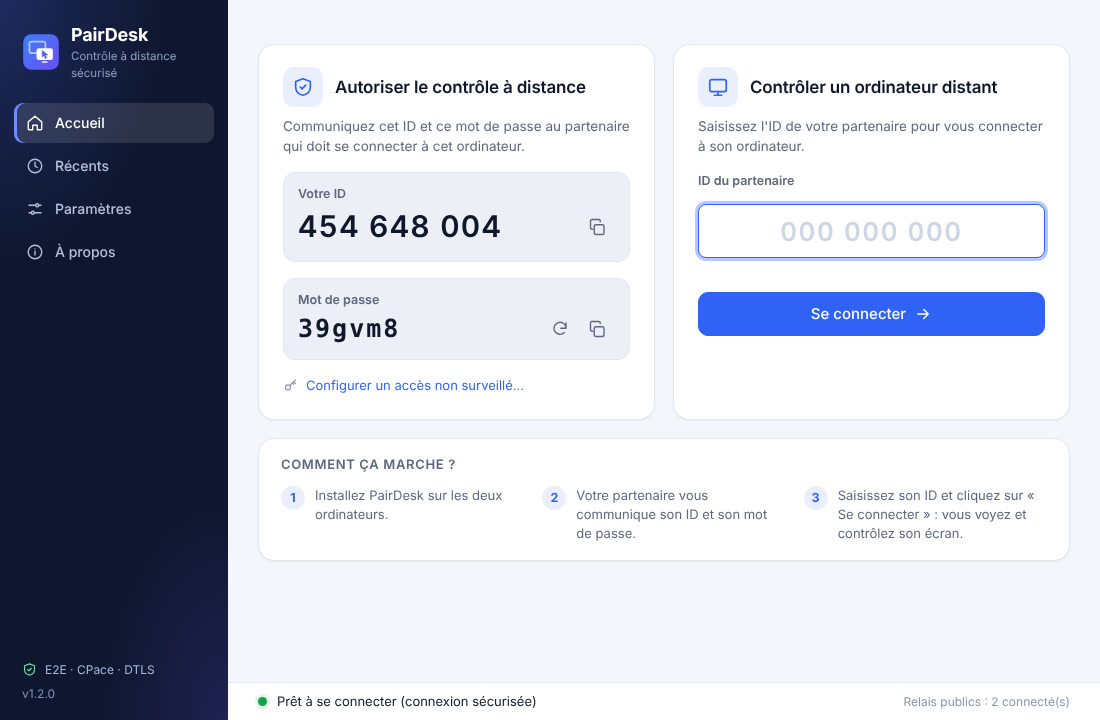
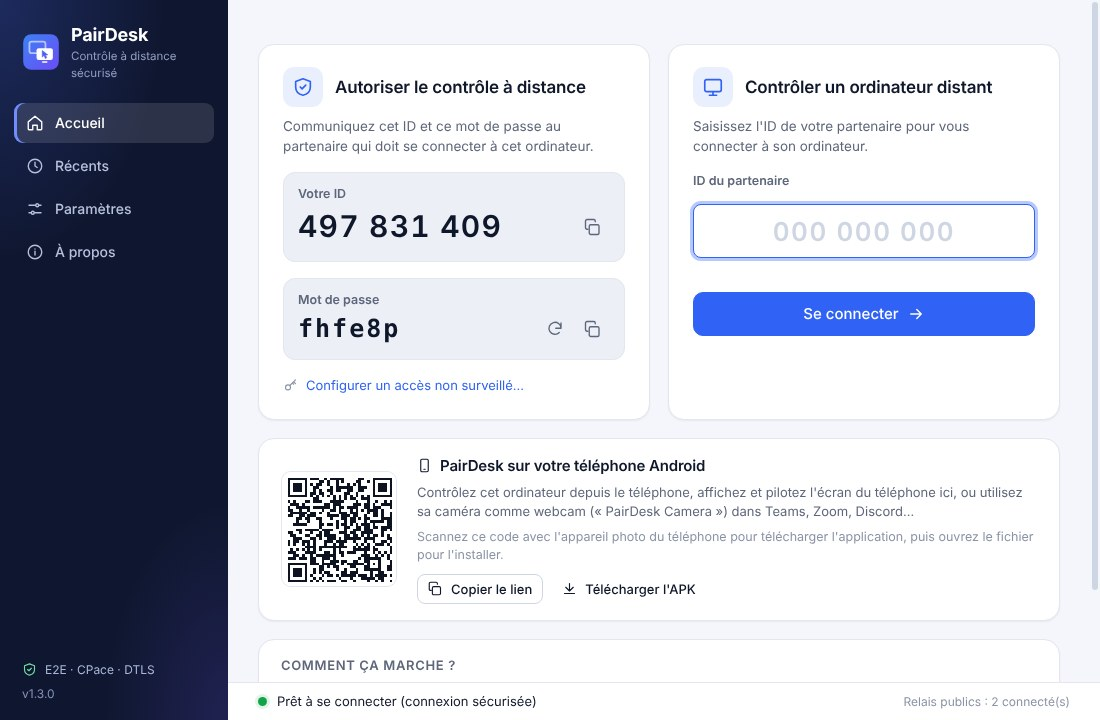
Website: devices section (Windows, Mac, Android with a QR code), 1.3 screenshot, install FAQ
- 'Sur tous vos appareils': what PairDesk does on Windows/Linux, on a Mac
  (first launch, permissions) and on Android, with a QR code of the APK.
- The main download buttons offer the visitor's own system (Mac, Linux,
  Android, Windows by default).
- New home screenshot of 1.3.0 (with the Android card), FAQ on installing
  on a Mac and on Android.

Claude-Session: https://claude.ai/code/session_01NihorUhLhgVqH1AuupeyTu

diff --git a/website/index.html b/website/index.html
@@ -265,6 +265,21 @@ section.block { padding: clamp(72px, 10vw, 120px) 0; }
 @media (max-width: 980px) { .bento { grid-template-columns: repeat(2, 1fr); } .card, .card.wide { grid-column: span 1; } .card.full { grid-column: 1 / -1; } }
 @media (max-width: 620px) { .bento { grid-template-columns: 1fr; } .card.full { grid-column: auto; } }
 
+.devices { display: grid; grid-template-columns: repeat(3, 1fr); gap: 18px; }
+.device { display: flex; flex-direction: column; padding: 28px; border-radius: var(--radius-lg); background: var(--bg-elev); border: 1px solid var(--border); box-shadow: var(--shadow); }
+.device .logo { width: 40px; height: 40px; margin-bottom: 16px; color: var(--text); }
+.device h3 { font-size: 20px; margin-bottom: 6px; }
+.device > p { color: var(--text-muted); font-size: 15px; }
+.device ul { list-style: none; padding: 0; margin: 16px 0 0; display: grid; gap: 9px; font-size: 14.5px; color: var(--text-muted); }
+.device li { display: flex; gap: 9px; align-items: flex-start; }
+.device li svg.i { width: 18px; height: 18px; color: var(--success); margin-top: 3px; }
+.device .tip { margin-top: auto; padding-top: 18px; font-size: 13.5px; color: var(--text-faint); }
+.qrbox { margin-top: 18px; display: flex; gap: 16px; align-items: center; padding: 14px; border-radius: 14px; background: var(--bg-sunken); border: 1px solid var(--border); }
+.qrbox .qr { width: 112px; height: 112px; flex: none; border-radius: 8px; }
+.qrbox p { font-size: 13.5px; color: var(--text-muted); }
+.qrbox a { font-weight: 600; }
+@media (max-width: 980px) { .devices { grid-template-columns: 1fr; max-width: 560px; margin: 0 auto; } }
+
 /* security (night) */
 .night { background: var(--night); color: var(--night-text); position: relative; overflow: hidden; isolation: isolate; }
 .night::before { content: ""; position: absolute; z-index: -1; width: 700px; height: 700px; right: -260px; bottom: -320px; border-radius: 50%; background: var(--glow-b); filter: blur(110px); }
@@ -376,6 +391,7 @@ footer nav a:hover { color: var(--accent); }
     <ul>
       <li><a href="#comment">Comment ça marche</a></li>
       <li><a href="#fonctions">Fonctionnalités</a></li>
+      <li><a href="#appareils">Mac et Android</a></li>
       <li><a href="#securite">Sécurité</a></li>
       <li><a href="#faq">FAQ</a></li>
     </ul>
@@ -393,13 +409,14 @@ footer nav a:hover { color: var(--accent); }
         <h1>Prenez la main sur n'importe quel PC, <em>en quelques secondes.</em></h1>
         <p class="lead">PairDesk vous connecte à l'écran d'un autre ordinateur pour aider un proche, dépanner un collègue ou retrouver vos fichiers. Un ID, un mot de passe, et c'est parti.</p>
         <div class="cta">
-          <a class="btn primary" href="https://github.com/Azukkia/PairDesk/releases/latest/download/PairDesk-Setup.exe"><svg class="i"><use href="#i-download"/></svg>Télécharger pour Windows <small>gratuit</small></a>
-          <a class="btn ghost" href="#telecharger">Mac, Linux et Android</a>
+          <a class="btn primary" data-download href="https://github.com/Azukkia/PairDesk/releases/latest/download/PairDesk-Setup.exe"><svg class="i"><use href="#i-download"/></svg><span>Télécharger pour Windows</span> <small>gratuit</small></a>
+          <a class="btn ghost" href="#telecharger">Toutes les versions</a>
         </div>
         <div class="trust">
           <span><svg class="i"><use href="#i-check"/></svg>100 % gratuit</span>
           <span><svg class="i"><use href="#i-check"/></svg>Sans compte à créer</span>
           <span><svg class="i"><use href="#i-check"/></svg>Chiffré de bout en bout</span>
+          <span><svg class="i"><use href="#i-check"/></svg>Windows, Mac, Linux, Android</span>
           <span><svg class="i"><use href="#i-check"/></svg>Code source public</span>
         </div>
       </div>
@@ -516,6 +533,56 @@ footer nav a:hover { color: var(--accent); }
     </div>
   </section>
 
+  <!-- ───── devices ───── -->
+  <section class="block" id="appareils" style="padding-top:0">
+    <div class="wrap">
+      <div class="head reveal">
+        <span class="eyebrow">Sur tous vos appareils</span>
+        <h2>PC, Mac et téléphone, ensemble.</h2>
+        <p>Toutes les combinaisons fonctionnent : un PC contrôle un Mac, un téléphone contrôle un PC, un PC affiche un téléphone…</p>
+      </div>
+      <div class="devices">
+        <article class="device reveal">
+          <svg class="logo" viewBox="0 0 24 24" aria-hidden="true"><path fill="#2f62f5" d="M3 5.5 10.5 4.5v7H3zM11.5 4.4 21 3v8.5h-9.5zM3 12.5h7.5v7L3 18.5zM11.5 12.5H21V21l-9.5-1.4z"/></svg>
+          <h3>Windows et Linux</h3>
+          <p>L'application complète, pour contrôler et être contrôlé.</p>
+          <ul>
+            <li><svg class="i"><use href="#i-check"/></svg>Image sans curseur fantôme, à 60 i/s</li>
+            <li><svg class="i"><use href="#i-check"/></svg>Copier-coller et glisser-déposer de fichiers</li>
+            <li><svg class="i"><use href="#i-check"/></svg>Webcam « PairDesk Camera » (Windows)</li>
+            <li><svg class="i"><use href="#i-check"/></svg>Mises à jour automatiques</li>
+          </ul>
+          <p class="tip">Windows 10 et 11, Linux (session X11).</p>
+        </article>
+        <article class="device reveal">
+          <svg class="logo" viewBox="0 0 24 24" aria-hidden="true"><path fill="currentColor" d="M16.4 12.6c0-2.4 2-3.6 2.1-3.7-1.1-1.7-2.9-1.9-3.5-1.9-1.5-.2-2.9.9-3.7.9-.8 0-1.9-.9-3.2-.8-1.6 0-3.1 1-4 2.4-1.7 3-.4 7.4 1.2 9.8.8 1.2 1.8 2.5 3 2.4 1.2 0 1.7-.8 3.1-.8 1.5 0 1.9.8 3.2.8 1.3 0 2.1-1.2 2.9-2.4.9-1.4 1.3-2.7 1.3-2.8 0 0-2.4-.9-2.4-3.9zM14 5.6c.7-.8 1.1-1.9 1-3-1 0-2.1.7-2.8 1.5-.6.7-1.2 1.8-1 2.9 1 .1 2.1-.6 2.8-1.4z"/></svg>
+          <h3>Mac</h3>
+          <p>Une seule application pour les Mac Intel et Apple (M1, M2, M3…).</p>
+          <ul>
+            <li><svg class="i"><use href="#i-check"/></svg>Contrôlez un PC depuis votre Mac, et inversement</li>
+            <li><svg class="i"><use href="#i-check"/></svg>Ctrl et Cmd gardent leur sens : Ctrl+C sur le PC = Cmd+C sur le Mac</li>
+            <li><svg class="i"><use href="#i-check"/></svg>Raccourcis Mac dans le menu : Cmd+Tab, Spotlight…</li>
+          </ul>
+          <p class="tip">macOS 13 et plus. Premier lancement : clic droit sur PairDesk → <b>Ouvrir</b>. Pour être contrôlé, autorisez PairDesk dans <b>Enregistrement de l'écran</b> et <b>Accessibilité</b> (une bannière vous y mène).</p>
+        </article>
+        <article class="device reveal">
+          <svg class="logo" viewBox="0 0 24 24" aria-hidden="true"><path fill="#34a853" d="M6 9h12v8a1 1 0 0 1-1 1h-1v3a1.3 1.3 0 0 1-2.6 0v-3h-2.8v3A1.3 1.3 0 0 1 8 21v-3H7a1 1 0 0 1-1-1zM3.7 9a1.3 1.3 0 0 1 1.3 1.3v5.4a1.3 1.3 0 0 1-2.6 0v-5.4A1.3 1.3 0 0 1 3.7 9zm16.6 0a1.3 1.3 0 0 1 1.3 1.3v5.4a1.3 1.3 0 0 1-2.6 0v-5.4A1.3 1.3 0 0 1 20.3 9zM15.6 3.2l1.3-1.9a.3.3 0 0 0-.5-.3L15.1 3a6.6 6.6 0 0 0-6.2 0L7.6 1a.3.3 0 0 0-.5.3l1.3 1.9A5.6 5.6 0 0 0 6 8h12a5.6 5.6 0 0 0-2.4-4.8zM9.5 6.2a.7.7 0 1 1 0-1.4.7.7 0 0 1 0 1.4zm5 0a.7.7 0 1 1 0-1.4.7.7 0 0 1 0 1.4z"/></svg>
+          <h3>Android</h3>
+          <p>Votre téléphone devient une télécommande… ou une webcam.</p>
+          <ul>
+            <li><svg class="i"><use href="#i-check"/></svg>Contrôlez votre PC depuis le téléphone (pavé tactile ou toucher direct)</li>
+            <li><svg class="i"><use href="#i-check"/></svg>La caméra du téléphone comme webcam du PC</li>
+            <li><svg class="i"><use href="#i-check"/></svg>Affichez et pilotez le téléphone depuis le PC</li>
+          </ul>
+          <div class="qrbox">
+            <svg class="qr" xmlns="http://www.w3.org/2000/svg" viewBox="0 0 41 41" shape-rendering="crispEdges" role="img" aria-label="Code QR : télécharger PairDesk pour Android"><rect width="100%" height="100%" fill="#fff"/><path fill="#0f172a" d="M2 2h1v1h-1zM3 2h1v1h-1zM4 2h1v1h-1zM5 2h1v1h-1zM6 2h1v1h-1zM7 2h1v1h-1zM8 2h1v1h-1zM10 2h1v1h-1zM11 2h1v1h-1zM12 2h1v1h-1zM15 2h1v1h-1zM17 2h1v1h-1zM18 2h1v1h-1zM19 2h1v1h-1zM20 2h1v1h-1zM21 2h1v1h-1zM27 2h1v1h-1zM28 2h1v1h-1zM32 2h1v1h-1zM33 2h1v1h-1zM34 2h1v1h-1zM35 2h1v1h-1zM36 2h1v1h-1zM37 2h1v1h-1zM38 2h1v1h-1zM2 3h1v1h-1zM8 3h1v1h-1zM13 3h1v1h-1zM14 3h1v1h-1zM16 3h1v1h-1zM19 3h1v1h-1zM21 3h1v1h-1zM26 3h1v1h-1zM27 3h1v1h-1zM30 3h1v1h-1zM32 3h1v1h-1zM38 3h1v1h-1zM2 4h1v1h-1zM4 4h1v1h-1zM5 4h1v1h-1zM6 4h1v1h-1zM8 4h1v1h-1zM10 4h1v1h-1zM12 4h1v1h-1zM13 4h1v1h-1zM16 4h1v1h-1zM19 4h1v1h-1zM23 4h1v1h-1zM25 4h1v1h-1zM27 4h1v1h-1zM32 4h1v1h-1zM34 4h1v1h-1zM35 4h1v1h-1zM36 4h1v1h-1zM38 4h1v1h-1zM2 5h1v1h-1zM4 5h1v1h-1zM5 5h1v1h-1zM6 5h1v1h-1zM8 5h1v1h-1zM11 5h1v1h-1zM12 5h1v1h-1zM17 5h1v1h-1zM19 5h1v1h-1zM20 5h1v1h-1zM21 5h1v1h-1zM22 5h1v1h-1zM23 5h1v1h-1zM24 5h1v1h-1zM27 5h1v1h-1zM28 5h1v1h-1zM29 5h1v1h-1zM32 5h1v1h-1zM34 5h1v1h-1zM35 5h1v1h-1zM36 5h1v1h-1zM38 5h1v1h-1zM2 6h1v1h-1zM4 6h1v1h-1zM5 6h1v1h-1zM6 6h1v1h-1zM8 6h1v1h-1zM11 6h1v1h-1zM13 6h1v1h-1zM16 6h1v1h-1zM17 6h1v1h-1zM19 6h1v1h-1zM20 6h1v1h-1zM23 6h1v1h-1zM24 6h1v1h-1zM27 6h1v1h-1zM28 6h1v1h-1zM32 6h1v1h-1zM34 6h1v1h-1zM35 6h1v1h-1zM36 6h1v1h-1zM38 6h1v1h-1zM2 7h1v1h-1zM8 7h1v1h-1zM10 7h1v1h-1zM11 7h1v1h-1zM13 7h1v1h-1zM14 7h1v1h-1zM17 7h1v1h-1zM22 7h1v1h-1zM23 7h1v1h-1zM26 7h1v1h-1zM32 7h1v1h-1zM38 7h1v1h-1zM2 8h1v1h-1zM3 8h1v1h-1zM4 8h1v1h-1zM5 8h1v1h-1zM6 8h1v1h-1zM7 8h1v1h-1zM8 8h1v1h-1zM10 8h1v1h-1zM12 8h1v1h-1zM14 8h1v1h-1zM16 8h1v1h-1zM18 8h1v1h-1zM20 8h1v1h-1zM22 8h1v1h-1zM24 8h1v1h-1zM26 8h1v1h-1zM28 8h1v1h-1zM30 8h1v1h-1zM32 8h1v1h-1zM33 8h1v1h-1zM34 8h1v1h-1zM35 8h1v1h-1zM36 8h1v1h-1zM37 8h1v1h-1zM38 8h1v1h-1zM11 9h1v1h-1zM12 9h1v1h-1zM18 9h1v1h-1zM20 9h1v1h-1zM22 9h1v1h-1zM24 9h1v1h-1zM25 9h1v1h-1zM28 9h1v1h-1zM29 9h1v1h-1zM30 9h1v1h-1zM2 10h1v1h-1zM4 10h1v1h-1zM8 10h1v1h-1zM9 10h1v1h-1zM11 10h1v1h-1zM12 10h1v1h-1zM13 10h1v1h-1zM17 10h1v1h-1zM18 10h1v1h-1zM19 10h1v1h-1zM20 10h1v1h-1zM21 10h1v1h-1zM26 10h1v1h-1zM30 10h1v1h-1zM33 10h1v1h-1zM36 10h1v1h-1zM38 10h1v1h-1zM3 11h1v1h-1zM4 11h1v1h-1zM5 11h1v1h-1zM7 11h1v1h-1zM15 11h1v1h-1zM16 11h1v1h-1zM18 11h1v1h-1zM19 11h1v1h-1zM20 11h1v1h-1zM25 11h1v1h-1zM26 11h1v1h-1zM27 11h1v1h-1zM29 11h1v1h-1zM30 11h1v1h-1zM32 11h1v1h-1zM35 11h1v1h-1zM36 11h1v1h-1zM37 11h1v1h-1zM38 11h1v1h-1zM2 12h1v1h-1zM5 12h1v1h-1zM6 12h1v1h-1zM7 12h1v1h-1zM8 12h1v1h-1zM9 12h1v1h-1zM11 12h1v1h-1zM12 12h1v1h-1zM13 12h1v1h-1zM14 12h1v1h-1zM15 12h1v1h-1zM16 12h1v1h-1zM18 12h1v1h-1zM20 12h1v1h-1zM21 12h1v1h-1zM23 12h1v1h-1zM24 12h1v1h-1zM25 12h1v1h-1zM26 12h1v1h-1zM29 12h1v1h-1zM30 12h1v1h-1zM32 12h1v1h-1zM33 12h1v1h-1zM34 12h1v1h-1zM38 12h1v1h-1zM2 13h1v1h-1zM3 13h1v1h-1zM6 13h1v1h-1zM9 13h1v1h-1zM14 13h1v1h-1zM17 13h1v1h-1zM18 13h1v1h-1zM20 13h1v1h-1zM24 13h1v1h-1zM26 13h1v1h-1zM28 13h1v1h-1zM30 13h1v1h-1zM31 13h1v1h-1zM32 13h1v1h-1zM33 13h1v1h-1zM35 13h1v1h-1zM3 14h1v1h-1zM4 14h1v1h-1zM5 14h1v1h-1zM6 14h1v1h-1zM7 14h1v1h-1zM8 14h1v1h-1zM10 14h1v1h-1zM11 14h1v1h-1zM13 14h1v1h-1zM16 14h1v1h-1zM20 14h1v1h-1zM21 14h1v1h-1zM22 14h1v1h-1zM24 14h1v1h-1zM25 14h1v1h-1zM26 14h1v1h-1zM30 14h1v1h-1zM32 14h1v1h-1zM33 14h1v1h-1zM35 14h1v1h-1zM38 14h1v1h-1zM2 15h1v1h-1zM3 15h1v1h-1zM6 15h1v1h-1zM7 15h1v1h-1zM9 15h1v1h-1zM10 15h1v1h-1zM11 15h1v1h-1zM16 15h1v1h-1zM17 15h1v1h-1zM18 15h1v1h-1zM19 15h1v1h-1zM21 15h1v1h-1zM22 15h1v1h-1zM23 15h1v1h-1zM25 15h1v1h-1zM26 15h1v1h-1zM29 15h1v1h-1zM32 15h1v1h-1zM33 15h1v1h-1zM35 15h1v1h-1zM38 15h1v1h-1zM5 16h1v1h-1zM6 16h1v1h-1zM8 16h1v1h-1zM9 16h1v1h-1zM12 16h1v1h-1zM13 16h1v1h-1zM17 16h1v1h-1zM21 16h1v1h-1zM22 16h1v1h-1zM24 16h1v1h-1zM25 16h1v1h-1zM27 16h1v1h-1zM29 16h1v1h-1zM30 16h1v1h-1zM35 16h1v1h-1zM36 16h1v1h-1zM37 16h1v1h-1zM38 16h1v1h-1zM5 17h1v1h-1zM9 17h1v1h-1zM13 17h1v1h-1zM19 17h1v1h-1zM22 17h1v1h-1zM24 17h1v1h-1zM25 17h1v1h-1zM29 17h1v1h-1zM31 17h1v1h-1zM32 17h1v1h-1zM33 17h1v1h-1zM34 17h1v1h-1zM35 17h1v1h-1zM37 17h1v1h-1zM38 17h1v1h-1zM4 18h1v1h-1zM5 18h1v1h-1zM6 18h1v1h-1zM7 18h1v1h-1zM8 18h1v1h-1zM13 18h1v1h-1zM14 18h1v1h-1zM16 18h1v1h-1zM17 18h1v1h-1zM19 18h1v1h-1zM21 18h1v1h-1zM22 18h1v1h-1zM24 18h1v1h-1zM26 18h1v1h-1zM28 18h1v1h-1zM29 18h1v1h-1zM30 18h1v1h-1zM32 18h1v1h-1zM37 18h1v1h-1zM38 18h1v1h-1zM13 19h1v1h-1zM19 19h1v1h-1zM22 19h1v1h-1zM23 19h1v1h-1zM26 19h1v1h-1zM27 19h1v1h-1zM29 19h1v1h-1zM30 19h1v1h-1zM32 19h1v1h-1zM33 19h1v1h-1zM35 19h1v1h-1zM36 19h1v1h-1zM37 19h1v1h-1zM38 19h1v1h-1zM5 20h1v1h-1zM6 20h1v1h-1zM8 20h1v1h-1zM9 20h1v1h-1zM10 20h1v1h-1zM11 20h1v1h-1zM12 20h1v1h-1zM14 20h1v1h-1zM15 20h1v1h-1zM16 20h1v1h-1zM17 20h1v1h-1zM22 20h1v1h-1zM25 20h1v1h-1zM26 20h1v1h-1zM27 20h1v1h-1zM29 20h1v1h-1zM30 20h1v1h-1zM31 20h1v1h-1zM35 20h1v1h-1zM36 20h1v1h-1zM38 20h1v1h-1zM2 21h1v1h-1zM3 21h1v1h-1zM6 21h1v1h-1zM10 21h1v1h-1zM13 21h1v1h-1zM15 21h1v1h-1zM16 21h1v1h-1zM20 21h1v1h-1zM21 21h1v1h-1zM22 21h1v1h-1zM24 21h1v1h-1zM25 21h1v1h-1zM28 21h1v1h-1zM29 21h1v1h-1zM30 21h1v1h-1zM31 21h1v1h-1zM35 21h1v1h-1zM3 22h1v1h-1zM4 22h1v1h-1zM8 22h1v1h-1zM9 22h1v1h-1zM12 22h1v1h-1zM13 22h1v1h-1zM15 22h1v1h-1zM16 22h1v1h-1zM17 22h1v1h-1zM18 22h1v1h-1zM22 22h1v1h-1zM23 22h1v1h-1zM25 22h1v1h-1zM26 22h1v1h-1zM28 22h1v1h-1zM30 22h1v1h-1zM32 22h1v1h-1zM33 22h1v1h-1zM35 22h1v1h-1zM37 22h1v1h-1zM4 23h1v1h-1zM5 23h1v1h-1zM6 23h1v1h-1zM10 23h1v1h-1zM11 23h1v1h-1zM13 23h1v1h-1zM16 23h1v1h-1zM17 23h1v1h-1zM18 23h1v1h-1zM20 23h1v1h-1zM22 23h1v1h-1zM23 23h1v1h-1zM24 23h1v1h-1zM25 23h1v1h-1zM26 23h1v1h-1zM27 23h1v1h-1zM29 23h1v1h-1zM30 23h1v1h-1zM31 23h1v1h-1zM32 23h1v1h-1zM37 23h1v1h-1zM38 23h1v1h-1zM2 24h1v1h-1zM4 24h1v1h-1zM5 24h1v1h-1zM7 24h1v1h-1zM8 24h1v1h-1zM9 24h1v1h-1zM11 24h1v1h-1zM15 24h1v1h-1zM16 24h1v1h-1zM17 24h1v1h-1zM19 24h1v1h-1zM20 24h1v1h-1zM21 24h1v1h-1zM22 24h1v1h-1zM25 24h1v1h-1zM29 24h1v1h-1zM32 24h1v1h-1zM35 24h1v1h-1zM36 24h1v1h-1zM38 24h1v1h-1zM2 25h1v1h-1zM4 25h1v1h-1zM7 25h1v1h-1zM9 25h1v1h-1zM11 25h1v1h-1zM15 25h1v1h-1zM18 25h1v1h-1zM20 25h1v1h-1zM21 25h1v1h-1zM26 25h1v1h-1zM28 25h1v1h-1zM30 25h1v1h-1zM33 25h1v1h-1zM34 25h1v1h-1zM35 25h1v1h-1zM37 25h1v1h-1zM8 26h1v1h-1zM9 26h1v1h-1zM10 26h1v1h-1zM11 26h1v1h-1zM13 26h1v1h-1zM14 26h1v1h-1zM15 26h1v1h-1zM16 26h1v1h-1zM17 26h1v1h-1zM18 26h1v1h-1zM19 26h1v1h-1zM20 26h1v1h-1zM21 26h1v1h-1zM22 26h1v1h-1zM25 26h1v1h-1zM27 26h1v1h-1zM29 26h1v1h-1zM30 26h1v1h-1zM32 26h1v1h-1zM38 26h1v1h-1zM3 27h1v1h-1zM5 27h1v1h-1zM7 27h1v1h-1zM9 27h1v1h-1zM11 27h1v1h-1zM13 27h1v1h-1zM18 27h1v1h-1zM20 27h1v1h-1zM25 27h1v1h-1zM26 27h1v1h-1zM27 27h1v1h-1zM28 27h1v1h-1zM29 27h1v1h-1zM30 27h1v1h-1zM32 27h1v1h-1zM33 27h1v1h-1zM38 27h1v1h-1zM2 28h1v1h-1zM3 28h1v1h-1zM4 28h1v1h-1zM8 28h1v1h-1zM9 28h1v1h-1zM10 28h1v1h-1zM11 28h1v1h-1zM15 28h1v1h-1zM16 28h1v1h-1zM18 28h1v1h-1zM20 28h1v1h-1zM21 28h1v1h-1zM23 28h1v1h-1zM24 28h1v1h-1zM25 28h1v1h-1zM29 28h1v1h-1zM32 28h1v1h-1zM34 28h1v1h-1zM36 28h1v1h-1zM38 28h1v1h-1zM4 29h1v1h-1zM5 29h1v1h-1zM7 29h1v1h-1zM10 29h1v1h-1zM12 29h1v1h-1zM13 29h1v1h-1zM14 29h1v1h-1zM15 29h1v1h-1zM16 29h1v1h-1zM17 29h1v1h-1zM18 29h1v1h-1zM21 29h1v1h-1zM28 29h1v1h-1zM29 29h1v1h-1zM30 29h1v1h-1zM33 29h1v1h-1zM35 29h1v1h-1zM37 29h1v1h-1zM2 30h1v1h-1zM3 30h1v1h-1zM4 30h1v1h-1zM6 30h1v1h-1zM7 30h1v1h-1zM8 30h1v1h-1zM10 30h1v1h-1zM11 30h1v1h-1zM14 30h1v1h-1zM15 30h1v1h-1zM16 30h1v1h-1zM18 30h1v1h-1zM27 30h1v1h-1zM29 30h1v1h-1zM30 30h1v1h-1zM31 30h1v1h-1zM32 30h1v1h-1zM33 30h1v1h-1zM34 30h1v1h-1zM37 30h1v1h-1zM10 31h1v1h-1zM11 31h1v1h-1zM14 31h1v1h-1zM17 31h1v1h-1zM18 31h1v1h-1zM19 31h1v1h-1zM21 31h1v1h-1zM22 31h1v1h-1zM25 31h1v1h-1zM26 31h1v1h-1zM29 31h1v1h-1zM30 31h1v1h-1zM34 31h1v1h-1zM38 31h1v1h-1zM2 32h1v1h-1zM3 32h1v1h-1zM4 32h1v1h-1zM5 32h1v1h-1zM6 32h1v1h-1zM7 32h1v1h-1zM8 32h1v1h-1zM10 32h1v1h-1zM11 32h1v1h-1zM12 32h1v1h-1zM14 32h1v1h-1zM15 32h1v1h-1zM16 32h1v1h-1zM17 32h1v1h-1zM18 32h1v1h-1zM21 32h1v1h-1zM23 32h1v1h-1zM24 32h1v1h-1zM25 32h1v1h-1zM26 32h1v1h-1zM27 32h1v1h-1zM28 32h1v1h-1zM30 32h1v1h-1zM32 32h1v1h-1zM34 32h1v1h-1zM38 32h1v1h-1zM2 33h1v1h-1zM8 33h1v1h-1zM13 33h1v1h-1zM14 33h1v1h-1zM16 33h1v1h-1zM18 33h1v1h-1zM19 33h1v1h-1zM24 33h1v1h-1zM25 33h1v1h-1zM29 33h1v1h-1zM30 33h1v1h-1zM34 33h1v1h-1zM37 33h1v1h-1zM38 33h1v1h-1zM2 34h1v1h-1zM4 34h1v1h-1zM5 34h1v1h-1zM6 34h1v1h-1zM8 34h1v1h-1zM11 34h1v1h-1zM13 34h1v1h-1zM14 34h1v1h-1zM19 34h1v1h-1zM22 34h1v1h-1zM26 34h1v1h-1zM29 34h1v1h-1zM30 34h1v1h-1zM31 34h1v1h-1zM32 34h1v1h-1zM33 34h1v1h-1zM34 34h1v1h-1zM37 34h1v1h-1zM38 34h1v1h-1zM2 35h1v1h-1zM4 35h1v1h-1zM5 35h1v1h-1zM6 35h1v1h-1zM8 35h1v1h-1zM11 35h1v1h-1zM13 35h1v1h-1zM15 35h1v1h-1zM16 35h1v1h-1zM21 35h1v1h-1zM22 35h1v1h-1zM24 35h1v1h-1zM25 35h1v1h-1zM26 35h1v1h-1zM31 35h1v1h-1zM34 35h1v1h-1zM35 35h1v1h-1zM2 36h1v1h-1zM4 36h1v1h-1zM5 36h1v1h-1zM6 36h1v1h-1zM8 36h1v1h-1zM10 36h1v1h-1zM14 36h1v1h-1zM16 36h1v1h-1zM17 36h1v1h-1zM19 36h1v1h-1zM21 36h1v1h-1zM22 36h1v1h-1zM23 36h1v1h-1zM24 36h1v1h-1zM25 36h1v1h-1zM27 36h1v1h-1zM28 36h1v1h-1zM29 36h1v1h-1zM31 36h1v1h-1zM33 36h1v1h-1zM34 36h1v1h-1zM35 36h1v1h-1zM36 36h1v1h-1zM38 36h1v1h-1zM2 37h1v1h-1zM8 37h1v1h-1zM11 37h1v1h-1zM13 37h1v1h-1zM20 37h1v1h-1zM24 37h1v1h-1zM28 37h1v1h-1zM29 37h1v1h-1zM30 37h1v1h-1zM31 37h1v1h-1zM32 37h1v1h-1zM34 37h1v1h-1zM35 37h1v1h-1zM2 38h1v1h-1zM3 38h1v1h-1zM4 38h1v1h-1zM5 38h1v1h-1zM6 38h1v1h-1zM7 38h1v1h-1zM8 38h1v1h-1zM10 38h1v1h-1zM12 38h1v1h-1zM14 38h1v1h-1zM16 38h1v1h-1zM17 38h1v1h-1zM18 38h1v1h-1zM21 38h1v1h-1zM22 38h1v1h-1zM25 38h1v1h-1zM30 38h1v1h-1zM33 38h1v1h-1zM35 38h1v1h-1zM38 38h1v1h-1z"/></svg>
+            <p>Scannez avec l'appareil photo du téléphone, ou <a href="https://github.com/Azukkia/PairDesk/releases/latest/download/PairDesk.apk">téléchargez l'APK</a>. Android 8 et plus ; autorisez l'installation depuis le navigateur (l'application n'est pas sur le Play Store).</p>
+          </div>
+        </article>
+      </div>
+    </div>
+  </section>
+
   <!-- ───── security ───── -->
   <section class="block night" id="securite">
     <div class="wrap">
@@ -545,7 +612,7 @@ footer nav a:hover { color: var(--accent); }
       <div class="gallery">
         <figure class="reveal">
           <div class="shot"><img src="accueil.jpg" width="1100" height="720" alt="Écran d'accueil de PairDesk : votre ID et votre mot de passe à gauche, la saisie de l'ID du partenaire à droite" loading="lazy"></div>
-          <figcaption><b>L'accueil</b>Votre ID et votre mot de passe d'un côté, l'ID de votre partenaire de l'autre.</figcaption>
+          <figcaption><b>L'accueil</b>Votre ID et votre mot de passe d'un côté, l'ID de votre partenaire de l'autre, et le code QR pour installer l'application Android.</figcaption>
         </figure>
         <figure class="reveal">
           <div class="shot"><img src="controle.jpg" width="1280" height="800" alt="Fenêtre de contrôle à distance PairDesk : le bureau distant avec un bloc-notes et un dessin, la barre d'outils en haut" loading="lazy"></div>
@@ -651,6 +718,14 @@ footer nav a:hover { color: var(--accent); }
           <p>Aucun problème : PairDesk fonctionne à travers Internet, d'une maison à l'autre, du bureau au domicile, en Wi-Fi comme en 4G. Il choisit automatiquement le chemin le plus rapide.</p>
         </details>
         <details>
+          <summary>Comment installer PairDesk sur Mac ?</summary>
+          <p>Ouvrez le fichier .dmg et glissez PairDesk dans Applications. L'application n'étant pas signée par Apple, faites la première fois un clic droit sur PairDesk puis « Ouvrir » (ou Réglages → Confidentialité et sécurité → « Ouvrir quand même »). Pour que votre Mac puisse être contrôlé, autorisez PairDesk dans « Enregistrement de l'écran » et « Accessibilité » : une bannière dans l'application vous y emmène.</p>
+        </details>
+        <details>
+          <summary>Comment installer l'application Android ?</summary>
+          <p>Sur le téléphone, scannez le code QR de cette page (ou celui de l'accueil de PairDesk sur votre PC), téléchargez l'APK et ouvrez-le. Android demande d'autoriser l'installation depuis le navigateur : acceptez, l'application n'est pas sur le Play Store. Pour piloter le téléphone depuis le PC, activez une fois le service d'accessibilité « PairDesk » (sur Android 13 et plus, autorisez d'abord les « paramètres restreints » de l'application).</p>
+        </details>
+        <details>
           <summary>Puis-je accéder à mon propre PC quand je ne suis pas devant ?</summary>
           <p>Oui, avec l'accès non surveillé : définissez un mot de passe personnel dans PairDesk, et connectez-vous à votre ordinateur depuis n'importe où.</p>
         </details>
@@ -665,7 +740,7 @@ footer nav a:hover { color: var(--accent); }
         <h2>Prêt à prendre la main ?</h2>
         <p>Téléchargez PairDesk et connectez-vous à votre premier ordinateur dans moins de deux minutes.</p>
         <div class="cta" style="margin-top:0">
-          <a class="btn white" href="https://github.com/Azukkia/PairDesk/releases/latest/download/PairDesk-Setup.exe"><svg class="i"><use href="#i-download"/></svg>Télécharger pour Windows</a>
+          <a class="btn white" data-download href="https://github.com/Azukkia/PairDesk/releases/latest/download/PairDesk-Setup.exe"><svg class="i"><use href="#i-download"/></svg><span>Télécharger pour Windows</span></a>
           <a class="btn clear" href="#telecharger">Autres plateformes</a>
         </div>
       </div>
@@ -688,6 +763,18 @@ footer nav a:hover { color: var(--accent); }
 </footer>
 
 <script>
+// The main download buttons offer the visitor's own system.
+(() => {
+  const base = 'https://github.com/Azukkia/PairDesk/releases/latest/download/';
+  const ua = navigator.userAgent;
+  const os = /Android/i.test(ua) ? 'android' : /iPhone|iPad|iPod/i.test(ua) ? null : /Mac OS X|Macintosh/i.test(ua) ? 'mac' : /Linux|X11/i.test(ua) ? 'linux' : null;
+  const target = { android: ['PairDesk.apk', 'Télécharger pour Android'], mac: ['PairDesk-mac.dmg', 'Télécharger pour Mac'], linux: ['PairDesk-x86_64.AppImage', 'Télécharger pour Linux'] }[os];
+  if (!target) return;
+  for (const a of document.querySelectorAll('a[data-download]')) {
+    a.href = base + target[0];
+    a.querySelector('span').textContent = target[1];
+  }
+})();
 (() => {
   const nav = document.getElementById('nav');
   const onScroll = () => nav.classList.toggle('solid', window.scrollY > 24);
